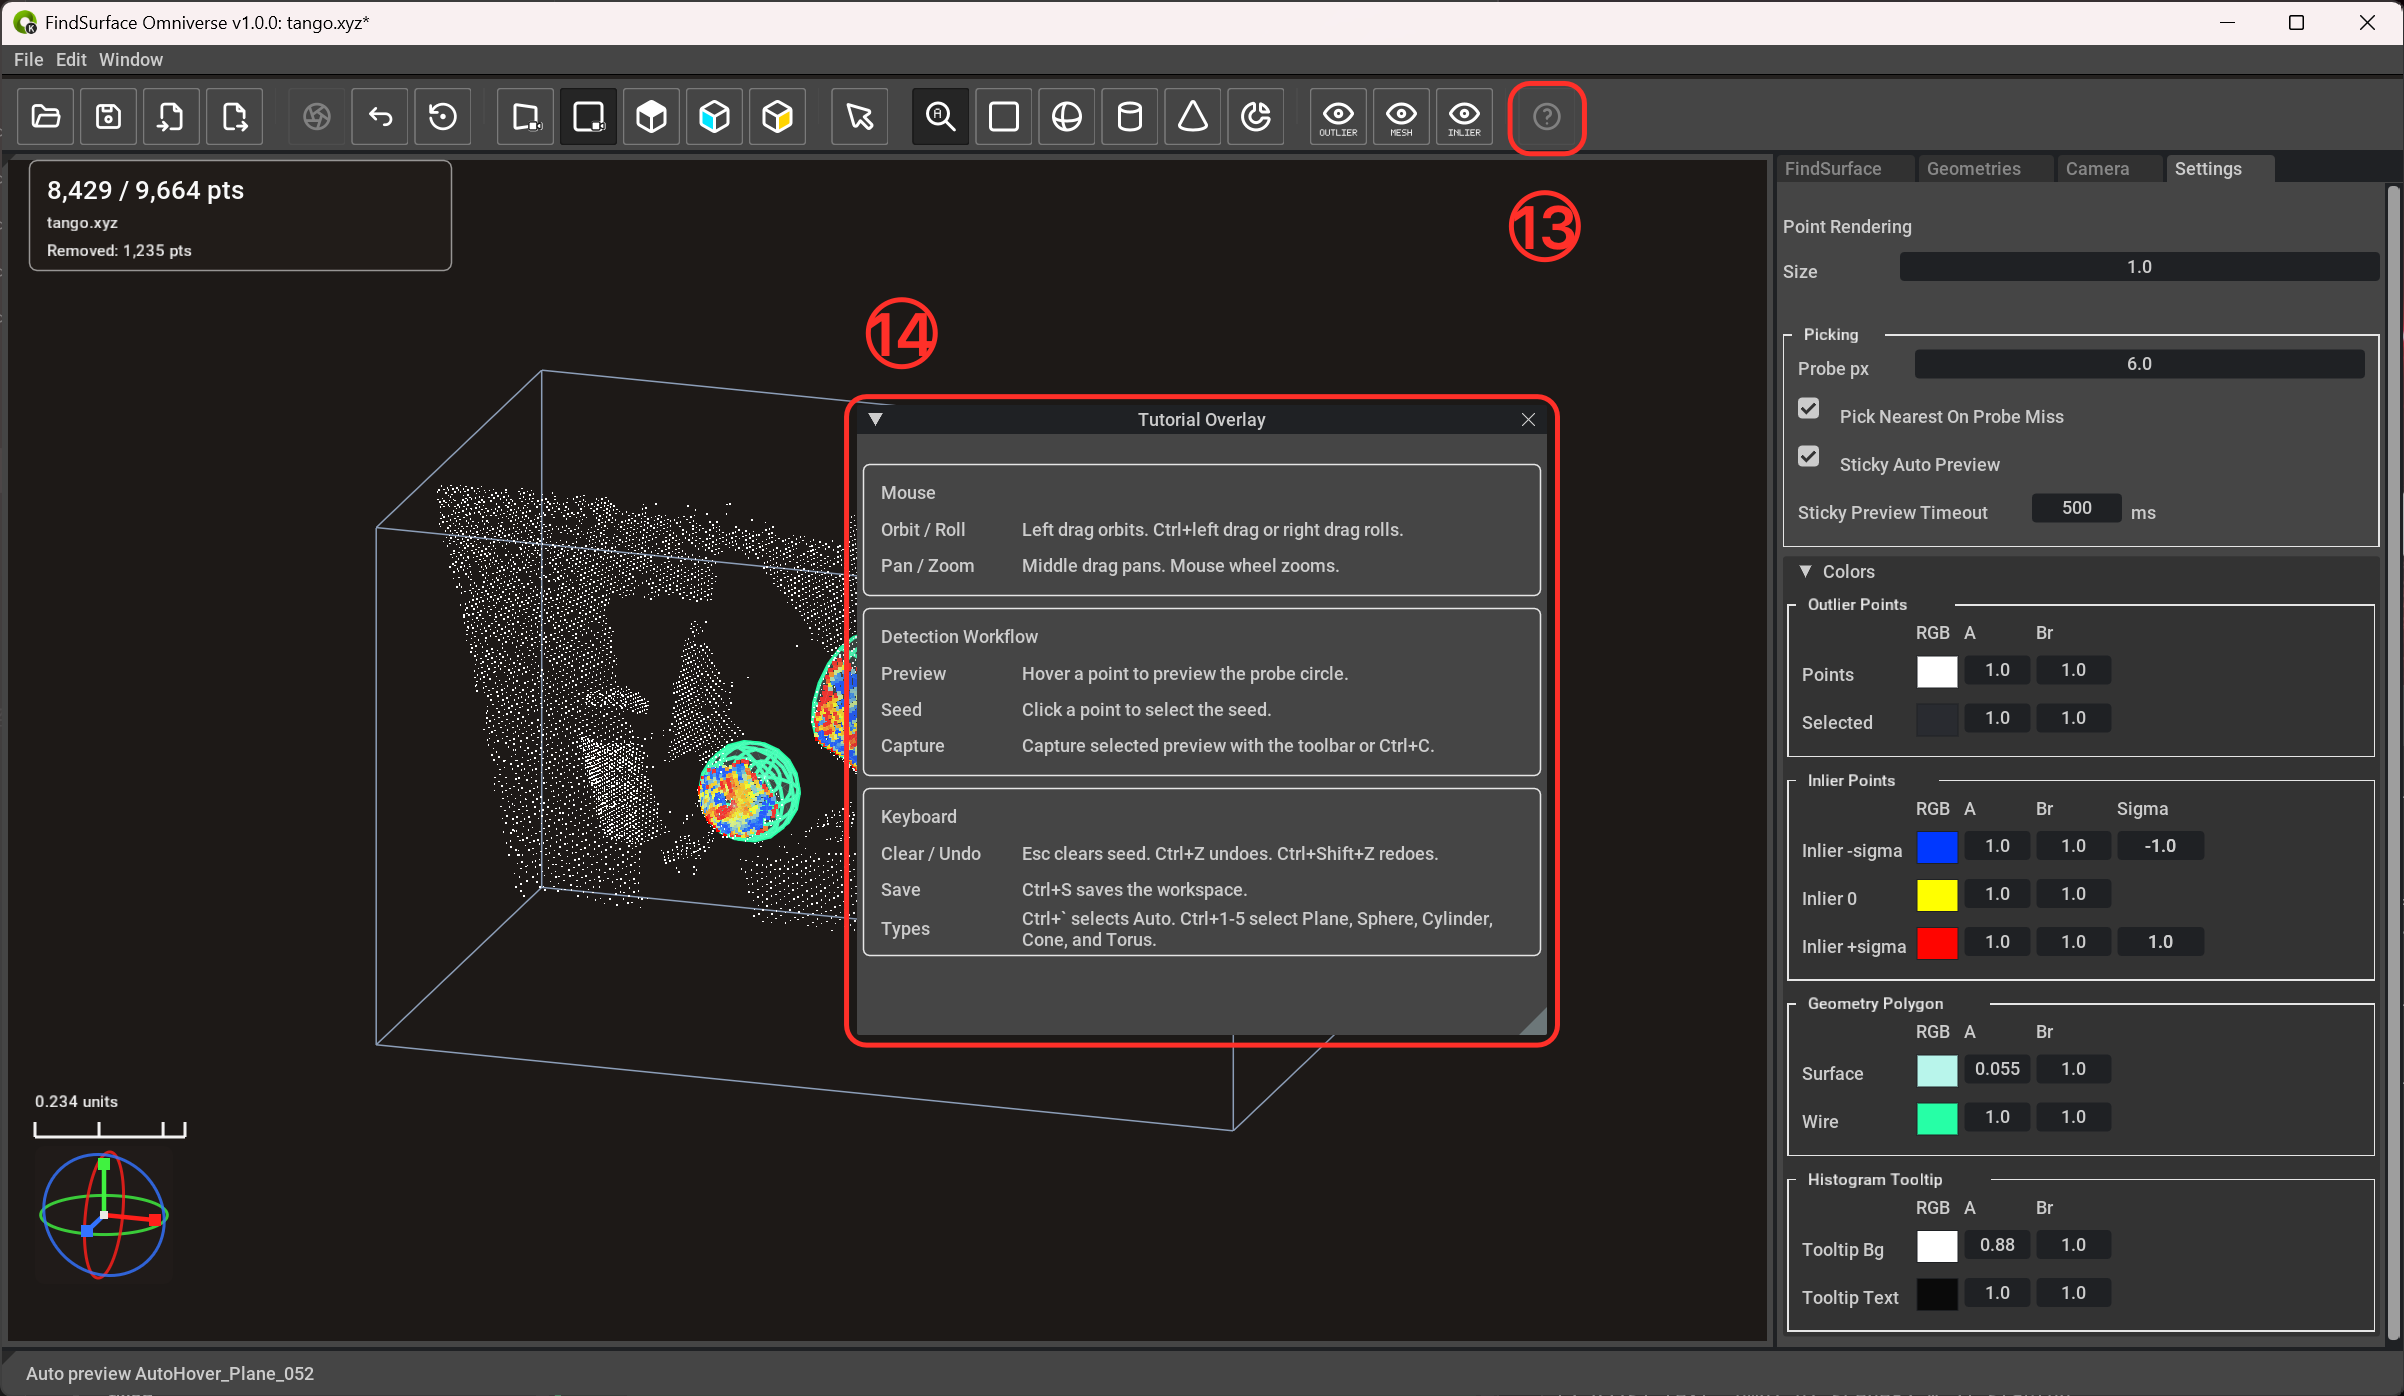
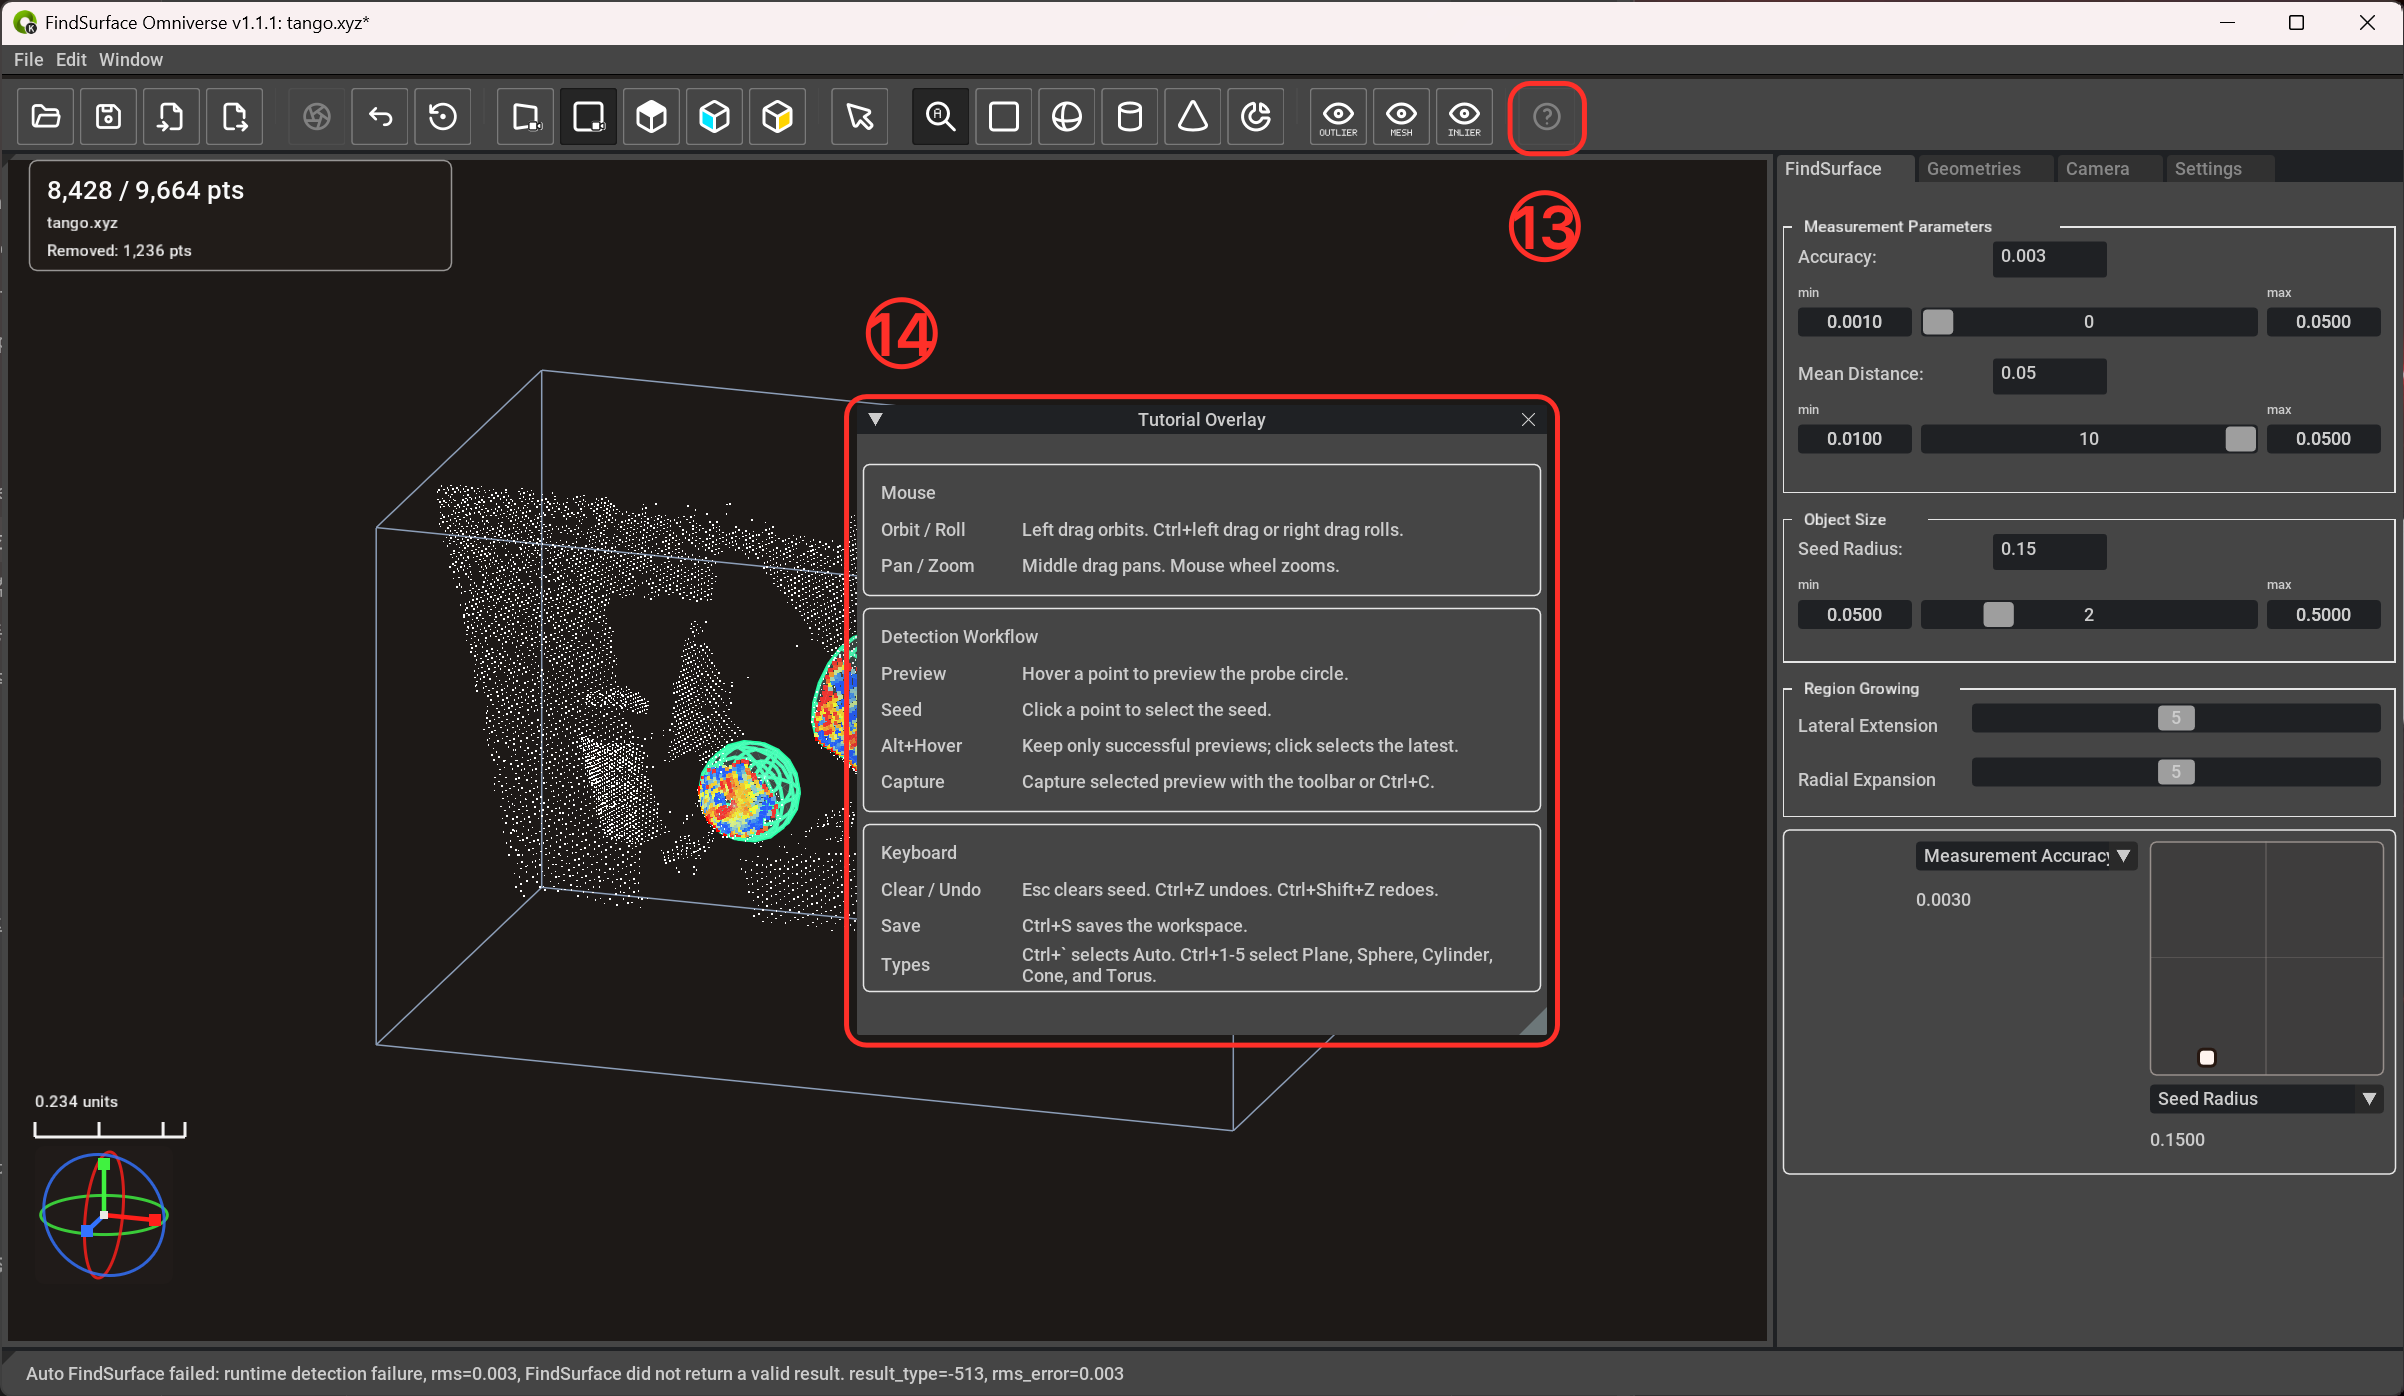
Update Alt-hover tutorial and app version

diff --git a/tests/test_capture_flow.py b/tests/test_capture_flow.py
@@ -3602,13 +3602,13 @@ class CaptureFlowTests(unittest.TestCase):
 
             ext._set_dirty(True)
 
-            self.assertEqual(app_titles[-1], "FindSurface Omniverse v1.0.0: workspace.usda*")
+            self.assertEqual(app_titles[-1], "FindSurface Omniverse v1.1.1: workspace.usda*")
             self.assertEqual(viewport_window.title, "Viewport")
             self.assertEqual(viewport_window.name, "Viewport")
 
             ext._set_dirty(False)
 
-            self.assertEqual(app_titles[-1], "FindSurface Omniverse v1.0.0: workspace.usda")
+            self.assertEqual(app_titles[-1], "FindSurface Omniverse v1.1.1: workspace.usda")
             self.assertEqual(viewport_window.title, "Viewport")
             self.assertEqual(viewport_window.name, "Viewport")
         finally:
@@ -3667,7 +3667,7 @@ class CaptureFlowTests(unittest.TestCase):
 
             self.assertEqual(
                 native_titles[-1],
-                (native_window, "FindSurface Omniverse v1.0.0: workspace.usda*"),
+                (native_window, "FindSurface Omniverse v1.1.1: workspace.usda*"),
             )
             self.assertEqual(fallback_titles, [])
         finally:
@@ -3965,6 +3965,8 @@ class CaptureFlowTests(unittest.TestCase):
         self.assertIn("Detection Workflow", label_text)
         self.assertIn("Keyboard", label_text)
         self.assertIn("Orbit / Roll", label_text)
+        self.assertIn("Alt+Hover", label_text)
+        self.assertIn("Keep only successful previews; click selects the latest.", label_text)
         self.assertIn("Capture", label_text)
         self.assertIn("Types", label_text)
         self.assertEqual(len(zstacks), 3)

diff --git a/source/extensions/com.curvsurf.findsurface_omniverse/findsurface_omniverse/extension.py b/source/extensions/com.curvsurf.findsurface_omniverse/findsurface_omniverse/extension.py
@@ -58,7 +58,7 @@ from .workspace import read_workspace, write_geometry_export, write_workspace
 
 
 EXTENSION_ID = "com.curvsurf.findsurface_omniverse"
-APP_WINDOW_TITLE = "FindSurface Omniverse v1.0.0"
+APP_WINDOW_TITLE = "FindSurface Omniverse v1.1.1"
 SAMPLE_TARGET_MIN = 100
 SAMPLE_TARGET_STEP = 100
 FILE_DIALOG_IMPORT_POINTS = "import_points"
@@ -4106,6 +4106,7 @@ class FindSurfaceBootstrapExtension(omni.ext.IExt):
                 (
                     ("Preview", "Hover a point to preview the probe circle."),
                     ("Seed", "Click a point to select the seed."),
+                    ("Alt+Hover", "Keep only successful previews; click selects the latest."),
                     ("Capture", "Capture selected preview with the toolbar or Ctrl+C."),
                 ),
             )

diff --git a/MANUAL.md b/MANUAL.md
@@ -67,10 +67,12 @@ a screenshot is explained in the section below that image.
 8. Inspect captured geometry in the `Geometries` tab, adjust visibility, undo or
    redo operations, and export the captured results as USD.
 
-If the hover preview looks correct but clicking the point produces a different
-or failed detection, hold `Alt` while hovering and click. The app selects the
-last visually displayed hover-preview geometry instead of recomputing from the
-new clicked seed.
+When detection succeeds only intermittently, hold `Alt` while searching with
+the cursor. While `Alt` is held, the red hover-point marker advances only when
+a hover detection succeeds, preserving the most recent successful seed and
+preview when later hover attempts fail. Click while still holding `Alt` to
+select that preserved seed and display its successful detection result instead
+of recomputing from the point currently under the cursor.
 
 ## Supported Input
 
@@ -376,10 +378,15 @@ while learning the app:
 | Mouse | Pan / Zoom | Middle drag pans. Mouse wheel zooms. |
 | Detection Workflow | Preview | Hover a point to preview the probe circle. |
 | Detection Workflow | Seed | Click a point to select the seed. |
+| Detection Workflow | Alt+Hover | Hold `Alt` while hovering to keep the red marker on the latest successful preview; click while holding `Alt` to select that seed and show its detection result. |
 | Detection Workflow | Capture | Capture the selected preview with the toolbar or `Ctrl+C`. |
 | Keyboard | Clear / Undo | `Esc` clears the seed, `Ctrl+Z` undoes, and `Ctrl+Shift+Z` redoes. |
 | Keyboard | Save | `Ctrl+S` saves the workspace. |
 | Keyboard | Types | ``Ctrl+` `` selects `Auto`; `Ctrl+1` through `Ctrl+5` select `Plane`, `Sphere`, `Cylinder`, `Cone`, and `Torus`. |
+
+Use `Alt+Hover` as a conservative selection mode when successful detections
+flicker or are easy to pass over. Failed hover attempts do not move the red
+marker, so you can stop on and select the last successful result.
 
 ## Detection Workflow
 
